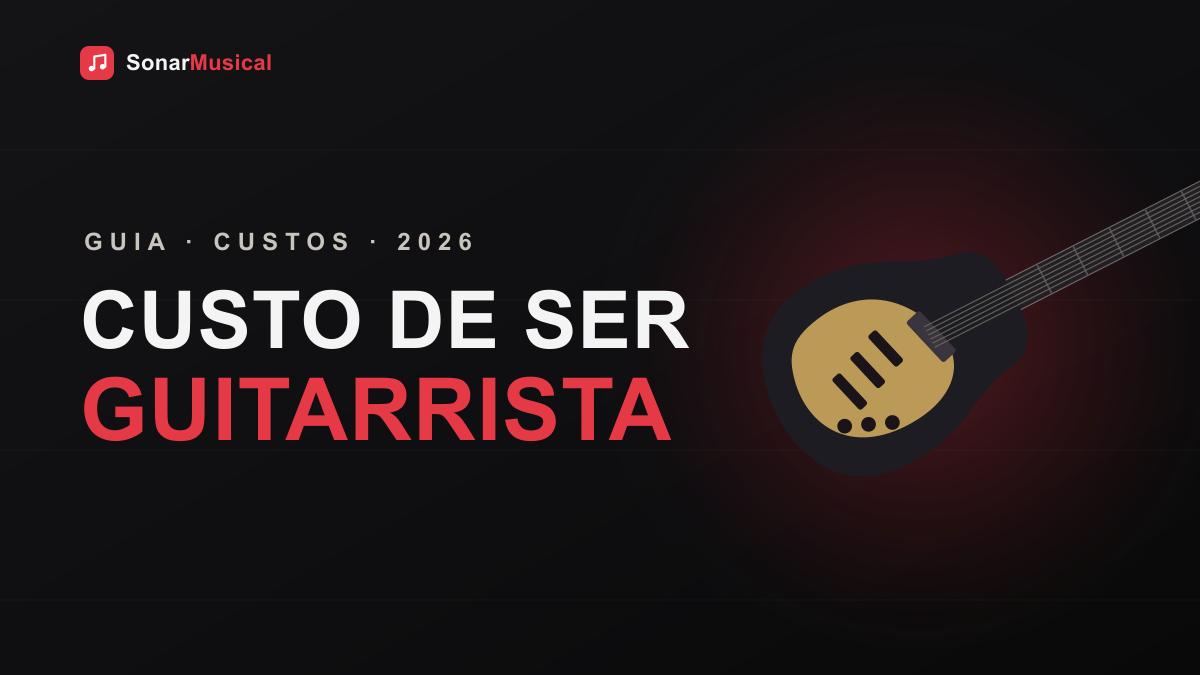
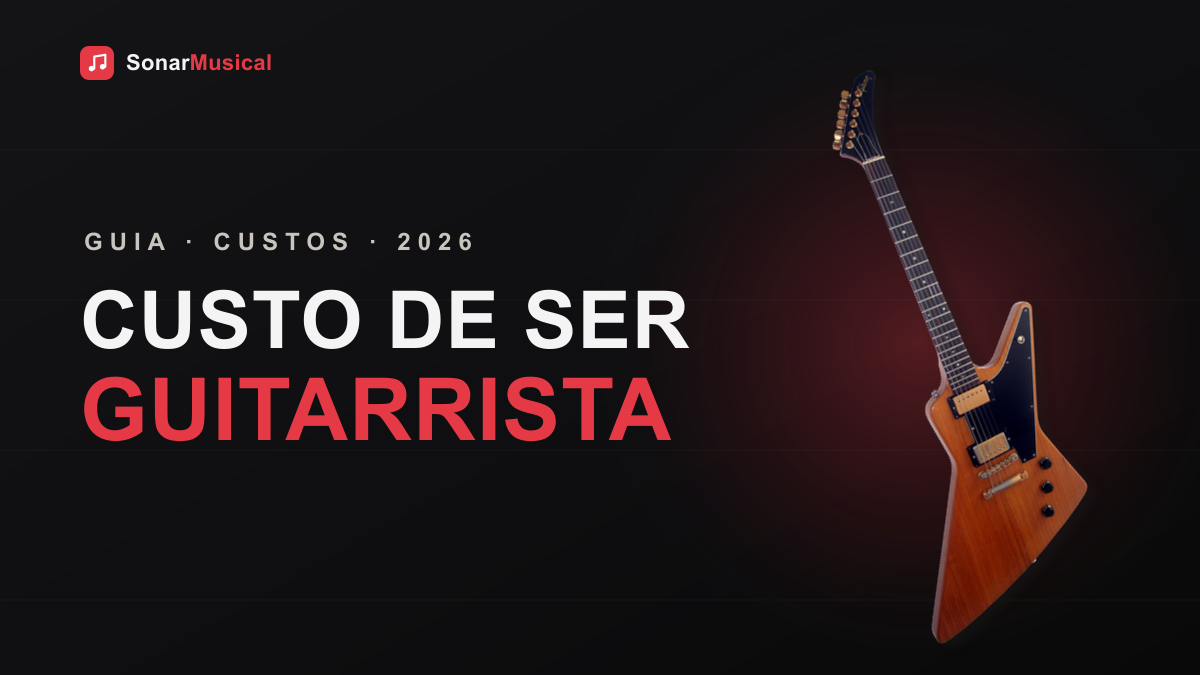
capas: substitui a ilustração de guitarra por foto real (Wikimedia CC), única por post; SG/Jackson mantêm o desenho; créditos em /creditos

Changed region(s): [[0.6475, 0.1244, 1.0, 0.9644]]

diff --git a/src/data/creditos.ts b/src/data/creditos.ts
@@ -266,3 +266,143 @@ export const CREDITOS_FOTOS: CreditoFoto[] = [
     fonteUrl: 'https://commons.wikimedia.org/wiki/File:Miles_Davis_1987.png',
   },
 ];
+
+/**
+ * Fotos de guitarras usadas como recorte nas capas dos artigos (no lugar da
+ * ilustração vetorial). Todas do Wikimedia Commons, sob Creative Commons, com
+ * fundo removido/recortado para composição — a atribuição é exigida pela licença.
+ */
+export interface CreditoCapa {
+  /** O que a foto retrata e onde é usada. */
+  descricao: string;
+  autor: string;
+  autorUrl?: string;
+  licenca: string;
+  licencaUrl?: string;
+  fonteUrl: string;
+}
+
+export const CREDITOS_CAPAS: CreditoCapa[] = [
+  {
+    descricao: "Fender Stratocaster (guia da Strinberg e outras)",
+    autor: "Auge=mit",
+    autorUrl: "https://commons.wikimedia.org/wiki/User:Auge%3Dmit",
+    licenca: "CC BY-SA 4.0",
+    licencaUrl: "https://creativecommons.org/licenses/by-sa/4.0/deed.pt",
+    fonteUrl: "https://commons.wikimedia.org/wiki/File:Fender_Stratocaster_Relic_FCS_AvR.png",
+  },
+  {
+    descricao: "Fender Telecaster American Vintage 1952 (guia da Telecaster)",
+    autor: "Massimo Barbieri",
+    licenca: "CC BY-SA 3.0",
+    licencaUrl: "https://creativecommons.org/licenses/by-sa/3.0/deed.pt",
+    fonteUrl: "https://commons.wikimedia.org/wiki/File:Fender_Telecaster_American_Vintage_1952_transparent.png",
+  },
+  {
+    descricao: "Gibson ES-335 (guia da guitarra semiacústica)",
+    autor: "Auge=mit",
+    autorUrl: "https://commons.wikimedia.org/wiki/User:Auge%3Dmit",
+    licenca: "CC BY-SA 4.0",
+    licencaUrl: "https://creativecommons.org/licenses/by-sa/4.0/deed.pt",
+    fonteUrl: "https://commons.wikimedia.org/wiki/File:Gibson_ES_335_64_GCS_AvR.png",
+  },
+  {
+    descricao: "Gibson Flying V Classic White (guia da Flying V)",
+    autor: "Monika Fischer",
+    licenca: "CC BY-SA 2.5",
+    licencaUrl: "https://creativecommons.org/licenses/by-sa/2.5/deed.pt",
+    fonteUrl: "https://commons.wikimedia.org/wiki/File:Gibson_Flying_V_Classic_White_noBG.png",
+  },
+  {
+    descricao: "Yamaha Pacifica 112VCX (guia da Yamaha)",
+    autor: "muzyczny.pl",
+    autorUrl: "http://muzyczny.pl",
+    licenca: "CC BY-SA 4.0",
+    licencaUrl: "https://creativecommons.org/licenses/by-sa/4.0/deed.pt",
+    fonteUrl: "https://commons.wikimedia.org/wiki/File:Gitara_elektryczna_Pacifica_112-VCX_firmy_Yamaha.jpg",
+  },
+  {
+    descricao: "Gibson Moderne (glossário da guitarra)",
+    autor: "Guitarpimp",
+    autorUrl: "https://commons.wikimedia.org/wiki/User:Guitarpimp",
+    licenca: "CC BY-SA 4.0",
+    licencaUrl: "https://creativecommons.org/licenses/by-sa/4.0/deed.pt",
+    fonteUrl: "https://commons.wikimedia.org/wiki/File:Gibson-Moderne-Heritage_noBG.jpg",
+  },
+  {
+    descricao: "Epiphone Casino (guia da Giannini)",
+    autor: "Maxo",
+    autorUrl: "https://commons.wikimedia.org/wiki/User:Maxo",
+    licenca: "CC BY-SA 4.0",
+    licencaUrl: "https://creativecommons.org/licenses/by-sa/4.0/deed.pt",
+    fonteUrl: "https://commons.wikimedia.org/wiki/File:Epiphone_Casino_VT_noBG.jpg",
+  },
+  {
+    descricao: "Fender Jazzmaster (guia da Tagima)",
+    autor: "Dirk-X · recorte de Auge=mit",
+    licenca: "CC BY-SA 4.0",
+    licencaUrl: "https://creativecommons.org/licenses/by-sa/4.0/deed.pt",
+    fonteUrl: "https://commons.wikimedia.org/wiki/File:Fender_Jazzmaster_red_noBG.jpg",
+  },
+  {
+    descricao: "Fender Jag-Stang (guia das nacionais baratas)",
+    autor: "Quentin Thiel · recorte de Auge=mit",
+    licenca: "CC BY-SA 4.0",
+    licencaUrl: "https://creativecommons.org/licenses/by-sa/4.0/deed.pt",
+    fonteUrl: "https://commons.wikimedia.org/wiki/File:Fender_Jag-Stang_Sonic_Blue_noBG.png",
+  },
+  {
+    descricao: "Fender Starcaster (guia das marcas nacionais)",
+    autor: "Tasmer",
+    autorUrl: "https://commons.wikimedia.org/wiki/User:Tasmer",
+    licenca: "CC BY-SA 3.0",
+    licencaUrl: "https://creativecommons.org/licenses/by-sa/3.0/deed.pt",
+    fonteUrl: "https://commons.wikimedia.org/wiki/File:Fender_Starcaster_noBG.png",
+  },
+  {
+    descricao: "Gibson Les Paul 59 (guia de presentes)",
+    autor: "Auge=mit",
+    autorUrl: "https://commons.wikimedia.org/wiki/User:Auge%3Dmit",
+    licenca: "CC BY-SA 4.0",
+    licencaUrl: "https://creativecommons.org/licenses/by-sa/4.0/deed.pt",
+    fonteUrl: "https://commons.wikimedia.org/wiki/File:GIBSON_Les_Paul_59_Collectors_Choice_CC4_SANDY_No_010_AvR.png",
+  },
+  {
+    descricao: "Ibanez Artist (partes da guitarra)",
+    autor: "NSX-Racer",
+    autorUrl: "https://commons.wikimedia.org/wiki/User:NSX-Racer",
+    licenca: "CC BY-SA 3.0",
+    licencaUrl: "https://creativecommons.org/licenses/by-sa/3.0/deed.pt",
+    fonteUrl: "https://commons.wikimedia.org/wiki/File:Ibanez_Artist_noBG.png",
+  },
+  {
+    descricao: "Gibson Explorer (quanto custa ser guitarrista)",
+    autor: "Guitarpimp",
+    autorUrl: "https://commons.wikimedia.org/wiki/User:Guitarpimp",
+    licenca: "CC BY-SA 3.0",
+    licencaUrl: "https://creativecommons.org/licenses/by-sa/3.0/deed.pt",
+    fonteUrl: "https://commons.wikimedia.org/wiki/File:Gibson-Explorer_noBG.png",
+  },
+  {
+    descricao: "Gibson ES-350T de Chuck Berry (quem inventou a guitarra)",
+    autor: "Smithsonian (CC0)",
+    licenca: "CC0",
+    licencaUrl: "https://creativecommons.org/publicdomain/zero/1.0/deed.pt",
+    fonteUrl: "https://commons.wikimedia.org/wiki/File:Gibson_ES_350T_Chuck_Berry_noBG.png",
+  },
+  {
+    descricao: "Fender Jaguar (Tagima vs Squier)",
+    autor: "badgreeb fattkatt · recorte de Auge=mit",
+    licenca: "CC BY-SA 4.0",
+    licencaUrl: "https://creativecommons.org/licenses/by-sa/4.0/deed.pt",
+    fonteUrl: "https://commons.wikimedia.org/wiki/File:Fender_Jaguar_3_tone_burst_noBG.png",
+  },
+  {
+    descricao: "Ibanez Artcore AS73G (guia da Ibanez)",
+    autor: "Auge=mit",
+    autorUrl: "https://commons.wikimedia.org/wiki/User:Auge%3Dmit",
+    licenca: "CC BY-SA 4.0",
+    licencaUrl: "https://creativecommons.org/licenses/by-sa/4.0/deed.pt",
+    fonteUrl: "https://commons.wikimedia.org/wiki/File:Ibanez_AS73G_PBM_noBG.png",
+  },
+];
